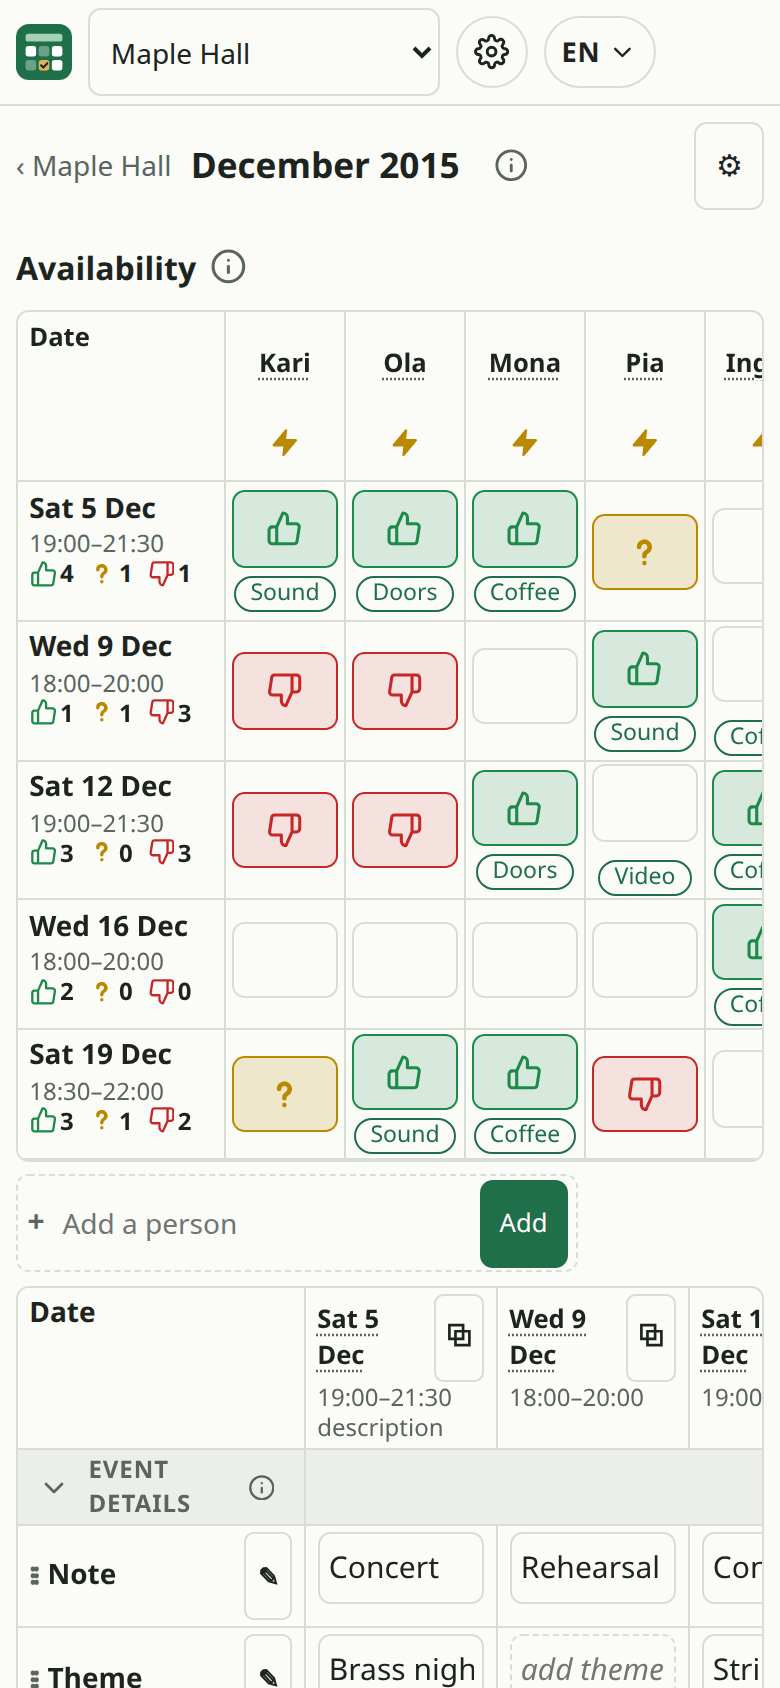
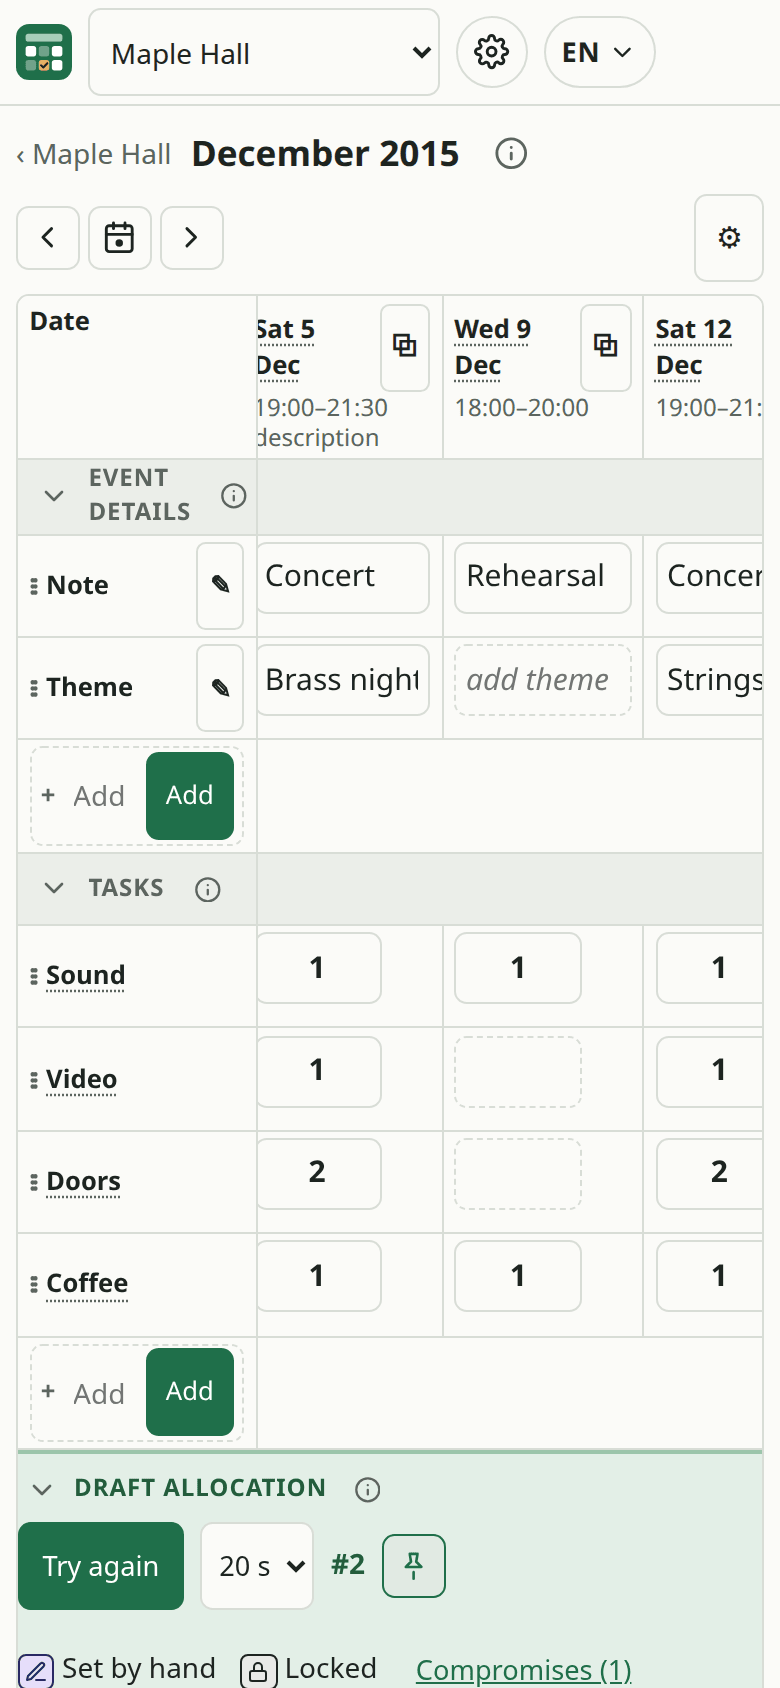
A phone gets the ordinary table, not the turned one

diff --git a/web/app.js b/web/app.js
@@ -715,13 +715,8 @@ function weightsForm(path, wr, saved) {
 // What the page keeps between redraws of the same plan: the draft picked under the earlier drafts.
 const planState = { key: '', runId: null };
 
-// A phone gets the availability turned (the sketch's option A, chosen 2026-11-20): events down, people across, the event column
-// stays put. The same width as the phone rule in style.css, and width only, so the keyboard coming up never redraws the page.
-const PHONE = matchMedia('(max-width: 40rem)');
-PHONE.addEventListener('change', () => { if (route().page === 'plan') render(); });
-
 // Sideways through the events: ◀ ▶ move a screenful, «Next» goes to the first event from today. Over the dates the wheel scrolls
-// sideways too. grid is the table's scroll box (null on a phone, where the events go down).
+// sideways too. grid is the table's scroll box.
 function sideways(grid, events) {
   if (!grid) return '';
   const firstCol = () => (grid.querySelector('tbody th[scope=row]') || { offsetWidth: 0 }).offsetWidth;
@@ -1341,14 +1336,14 @@ async function pagePlan(r, org, people) {
   // whole Row"): drag over cells, Shift+click to stretch, Ctrl/⌘+click to add or take away one, a click on ⋮⋮ for the
   // whole row, a click on an event's count for everyone that day. Two grids: places (tasks × events) and answers (people ×
   // events); a selection is in one of them. A bar at the bottom sets every selected cell at once (one request); Escape
-  // or ✕ lets go. Hidden rows (folded, filtered) are never selected. Not on a phone (the turned table).
+  // or ✕ lets go. Hidden rows (folded, filtered) are never selected. Dragging needs a mouse; a touch scrolls the table.
   const grids = { places: { rows: [], cells: new Map() }, answers: { rows: [], cells: new Map() } };
   const evIndex = new Map(events.map((ev, i) => [ev.id, i]));
   let sel = null;  // { grid, keys: Set('row/event'), anchor: { row, ev } }
   const selbar = h('div', { class: 'selbar', hidden: true, role: 'region', 'aria-label': t('sel.bar') });
   const cellKey = (row, ev) => row + '/' + ev;
   const reg = (grid, row, ev, td, paint) => {
-    if (PHONE.matches || org.level === 'view') return;
+    if (org.level === 'view') return;
     const g = grids[grid];
     if (!g.rows.includes(row)) g.rows.push(row);
     g.cells.set(cellKey(row, ev.id), { td, row, ev, paint });
@@ -1555,7 +1550,7 @@ async function pagePlan(r, org, people) {
     countCells[evId].replaceChildren(h('b', { class: 'good' }, icon('up'), c.good), h('b', { class: 'poor' }, icon('maybe'), c.poor), h('b', { class: 'never' }, icon('down'), c.never));
     countCells[evId].setAttribute('aria-label', t('table.count', c));
   };
-  const answerCell = (p, ev, got) => {
+  const answerCell = (p, ev) => {
     const b = h('button', { type: 'button', class: 'ans' });
     let busy = false;  // a second click while the first is on its way would send the same answer twice
     const paint = () => {
@@ -1576,8 +1571,8 @@ async function pagePlan(r, org, people) {
       busy = false;
     });
     paint();
-    const td = h('td', { class: 'answer' }, b, got && got.length ? h('div', { class: 'got' }, got.map((name) => h('span', { class: 'chip task' }, name))) : '');
-    if (!got) reg('answers', p.id, ev, td, paint);
+    const td = h('td', { class: 'answer' }, b);
+    reg('answers', p.id, ev, td, paint);
     return td;
   };
   // People: ⋮⋮ drags a person to another row, also into another section (or onto its heading: the top of it). Sections are
@@ -1633,9 +1628,8 @@ async function pagePlan(r, org, people) {
     view.load.length ? linkBtn(t('draft.distribution'), () => listDialog(t('draft.distribution'), view.load.map((l) => t('run.load_line', { name: l.name, count: l.count, target: l.target.toLocaleString(locale()) })))) : '',
     runs.length > 1 ? linkBtn(t('draft.earlier'), settingsDialog) : '');
 
-  const phone = PHONE.matches;
   const addPerson = () => addRow(t('table.new_person'), (name) => api('POST', base + '/people', { name }));
-  const table = h('div', { class: 'grid-scroll' + (phone ? '' : ' main') }, h('table', { class: 'dp-table' },
+  const table = h('div', { class: 'grid-scroll main' }, h('table', { class: 'dp-table' },
     h('thead', {}, head),
     h('tbody', {},
       sect('details', t('table.details'), [t('table.details_hint')]),
@@ -1644,7 +1638,7 @@ async function pagePlan(r, org, people) {
       folds('tasks', [tasks.map(taskRow), addLine(addRow(t('table.new_task'), (name) => api('POST', base + '/tasks', { name })))]),
       h('tr', { class: 'sect draft' }, h('td', { colspan: String(cols + 2) }, bar)),
       folds('draft', [tasks.map((tk) => h('tr', { class: 'draft-row' }, h('th', { scope: 'row' }, tk.name), events.map((ev) => putDraftCell(ev, tk)), filler()))]),
-      phone ? '' : [
+      [
         dropOn(h('tr', { class: 'sect' }, h('th', { scope: 'row' }, h('div', { class: 'rl' }, foldBtn('avail', t('table.availability')), t('table.availability'), infoBtn(t('table.availability'), [t('table.availability_info'), t('sel.info')])),
           people.length > 8 ? filterBox() : ''),
           events.map((ev) => (countCells[ev.id] = h('td', { class: 'count small', title: t('sel.column_hint'), onclick: (e) => selectLine('answers', e, (c) => c.ev.id === ev.id) }))), filler()),
@@ -1657,43 +1651,21 @@ async function pagePlan(r, org, people) {
   applyFolds(table);
   table.addEventListener('pointerdown', onCellDown);
 
-  // On a phone: the availability turned, above the rest of the table. Under each answer, the tasks the person has in the draft
-  // (as the draft rows show them: set by hand, locked or from the planner).
-  const firstName = (p) => p.name.split(/\s+/)[0];
-  const shortName = (p) => (people.some((o) => o.id !== p.id && firstName(o) === firstName(p)) ? firstName(p) + ' ' + p.name.split(/\s+/).pop()[0] + '.' : firstName(p));
-  const turned = () => {
-    const got = {};  // 'event/person' -> the names of the tasks they have in the draft
-    for (const ev of events) for (const tk of tasks) for (const x of slotsAt(ev, tk).items) {
-      if (x.kind === 'person') (got[ev.id + '/' + x.id] ||= []).push(tk.name);
-    }
-    const cols = people;
-    return h('section', { class: 'turned-wrap' },
-      h('h2', {}, t('table.availability'), infoBtn(t('table.availability'), [t('table.availability_info')])),
-      h('div', { class: 'grid-scroll' }, h('table', { class: 'dp-table turned' },
-        h('thead', {}, h('tr', {}, h('th', { scope: 'col', class: 'corner' }, t('table.date')),
-          cols.map((p) => (h('th', { scope: 'col' }, h('button', { type: 'button', class: 'cellbtn', title: p.name, 'aria-label': t('table.person_aria', { name: p.name }), onclick: () => personDialog(p) }, shortName(p)), autoBtn(p)))))),
-        h('tbody', {}, events.map((ev) => h('tr', {},
-          h('th', { scope: 'row' }, h('b', {}, fmtShortDate(ev.date)), clock(ev) ? h('span', { class: 'sub' }, clock(ev)) : '', (countCells[ev.id] = h('span', { class: 'sub count' }))),
-          cols.map((p) => (answerCell(p, ev, got[ev.id + '/' + p.id])))))))),
-      addPerson());
-  };
-  const availability = phone ? turned() : '';
   events.forEach((ev) => recount(ev.id));
 
   const root = h('div', { class: 'plan-page' },
     h('div', { class: 'title-bar' },
       link(`/o/${enc(r.org)}`, '‹ ' + org.name, { class: 'back small', 'aria-label': t('common.back', { name: org.name }) }),
       h('h1', {}, plan.name),
-      infoBtn(plan.name, [t(phone ? 'table.hint_phone' : 'table.hint')]),
-      events.length ? sideways(phone ? null : table, events) : '',
+      infoBtn(plan.name, [t('table.hint')]),
+      events.length ? sideways(table, events) : '',
       ME && ME.login && org.role ? h('button', { type: 'button', class: 'ghost share', onclick: () => shareDialog(r.org, org, plan) }, icon('share'), h('span', { class: 'lbl' }, ' ' + t('share.open'))) : '',
       h('button', { type: 'button', class: 'ghost settings', 'aria-label': t('settings.open'), onclick: settingsDialog }, '⚙', h('span', { class: 'lbl' }, ' ' + t('settings.open')))),
     viewOnly(org),
     events.length ? '' : h('p', { class: 'muted small' }, t('table.no_events')),
-    availability,
     table,
     selbar);
-  if (!phone) dragScroll(table);
+  dragScroll(table);
   root.shown = () => reopened({
     task: (id) => { const x = tasks.find((tk) => tk.id === id); if (x) taskDialog(x); },
     person: (id) => { const x = people.find((p) => p.id === id); if (x) personDialog(x); },

diff --git a/scripts/ui-check.js b/scripts/ui-check.js
@@ -550,21 +550,17 @@ const { spawn } = require('child_process');
       const w = await page.evaluate(() => [document.documentElement.scrollWidth, document.documentElement.clientWidth]);
       ok(w[0] <= w[1], `the page ${url} is ${w[0]} px wide on a ${w[1]} px screen (scrolls sideways)`);
     }
-    // the availability is turned (events down, people across) above the rest; the answers are only there
-    await page.waitForSelector('.dp-table.turned');
-    ok((await page.locator('.dp-table.turned button.ans').count()) === 9 && (await page.locator('button.ans').count()) === 9, 'on a phone the answers are in the turned table only');
-    ok((await page.locator('.dp-table.turned th[scope=row]').first().evaluate((e) => getComputedStyle(e).position)) === 'sticky', 'the event column stays put');
+    // the same table as on a wide screen: dates across, people down; the names stay put while the days scroll sideways
+    ok((await page.locator('button.ans').count()) === 9, 'on a phone the answers are in the ordinary table');
     const stuck = await page.evaluate(() => {
-      const box = document.querySelectorAll('.grid-scroll')[1];
+      const box = document.querySelector('.grid-scroll.main');
       const th = box.querySelector('tbody th[scope=row]');
       const x0 = th.getBoundingClientRect().left;
       box.scrollLeft = 300;
       return [box.scrollLeft > 0, Math.abs(th.getBoundingClientRect().left - x0) < 1];
     });
-    ok(stuck[0] && stuck[1], 'the rest of the table scrolls sideways and the row names stay put: ' + stuck);
-    const gotAt = (person, e) => answer(person, e).locator('xpath=..').locator('.got').innerText().catch(() => '');
-    ok((await gotAt(lockedName, ev[0])).includes('Sound'), 'under the answer: the task the person has in the draft (the locked name)');
-    const countOf = (e) => page.locator('.dp-table.turned tbody tr', { has: answer('Jon Demo', e) }).locator('.count').getAttribute('aria-label');
+    ok(stuck[0] && stuck[1], 'the table scrolls sideways and the row names stay put: ' + stuck);
+    const countOf = (e) => page.locator('td.count').nth(ev.indexOf(e)).getAttribute('aria-label');
     const before0 = await answer('Jon Demo', ev[0]).getAttribute('data-level');
     const count0 = await countOf(ev[0]);
     await answer('Jon Demo', ev[0]).click();
@@ -575,7 +571,6 @@ const { spawn } = require('child_process');
     ok((await dialog.locator('h2').innerText()) === 'Kari Test', 'a person’s name at the top opens the person');
     await closeDialog();
     await page.setViewportSize({ width: 1280, height: 900 });
-    await until(page, () => !document.querySelector('.dp-table.turned') && document.querySelectorAll('.dp-table button.ans').length === 9, null, 'a wide screen gets the table with people as rows again');
 
     // --- Norwegian: the switch, what the server writes, the errors ---
     await page.goto(base + '/o/sports-club');

diff --git a/web/style.css b/web/style.css
@@ -176,20 +176,12 @@ button.auto[aria-pressed="false"] { color: var(--muted); opacity: .45; }
 button.auto[aria-pressed="false"] svg { fill: none; }
 button.auto[aria-pressed="true"] svg { fill: currentColor; }
 button.auto:hover { border-color: var(--line); opacity: 1; }
-.dp-table.turned thead button.auto { margin: .1rem auto 0; display: block; }
 /* ⓘ: the explanation of something, in a dialog */
 button.info { background: transparent; border: none; color: var(--muted); padding: 0 .15rem; line-height: 0; }
 button.info:hover { color: var(--accent); }
 .info-text p { margin: .25rem 0 .6rem; }
-.dp-table tr.inactive th, .dp-table tr.inactive td, .dp-table.turned .inactive { opacity: .6; }
+.dp-table tr.inactive th, .dp-table tr.inactive td { opacity: .6; }
 
-/* A phone: the availability turned (option A), events down and people across; the event column stays put, people scroll sideways. */
-.turned-wrap h2 { margin: .75rem 0 .25rem; font-size: 1rem; }
-.dp-table.turned th[scope=row] { min-width: 6.5rem; max-width: 7.5rem; }
-.dp-table.turned thead th, .dp-table.turned td { min-width: 3.75rem; max-width: 5.5rem; text-align: center; }
-.dp-table.turned thead th.corner { text-align: left; }
-.dp-table.turned thead .cellbtn { font-size: .8rem; text-align: center; overflow-wrap: anywhere; }
-.dp-table.turned .got { display: flex; flex-wrap: wrap; justify-content: center; gap: .15rem; margin-top: .25rem; }
 span.chip.task { border-color: var(--accent); color: var(--accent); }
 
 /* ---- dialogs ---- */
@@ -229,8 +221,10 @@ input.wide { width: 100%; }
   header select { max-width: 11rem; padding: .25rem .4rem; }
   header .spacer { display: none; }
   .title-bar h1 { font-size: 1.1rem; }
-  .dp-table th[scope=row] { min-width: 7.5rem; max-width: 9rem; }
-  .dp-table th, .dp-table td { min-width: 6rem; }
+  /* a phone gets the same table: a narrower name column and narrower days, so more of them fit */
+  .dp-table th[scope=row] { min-width: 6.5rem; max-width: 7.5rem; font-size: .8rem; }
+  .dp-table th, .dp-table td { min-width: 4.75rem; }
+  .grid-scroll.main { scroll-padding-left: 7rem; }
   .legend { margin-left: 0; }
 }
 

diff --git a/web/i18n.js b/web/i18n.js
@@ -257,7 +257,6 @@ const MESSAGES = {
     'common.save': 'Save',
 
     'table.hint': 'Read a column from the top: what the event is, what it needs, who got it, who can come. Click an answer to change it: thumb up = yes, ? = maybe, thumb down = no, empty = not answered. ⚡ by a name: the planner may pick the person. Move sideways with ‹ ›, the wheel over the dates, the arrow keys, or by dragging the table.',
-    'table.hint_phone': 'Tap an answer to change it: thumb up = yes, ? = maybe, thumb down = no, empty = not answered. ⚡ under a name: the planner may pick the person. Under it are the tasks the person has in the draft. The details, the places and the draft are in the table further down.',
     'table.no_events': 'No events yet: add one with + at the end of the date row.',
     'table.date': 'Date',
     'table.tasks': 'Tasks',
@@ -729,7 +728,6 @@ const MESSAGES = {
     'common.save': 'Lagre',
 
     'table.hint': 'Les en kolonne ovenfra: hva hendelsen er, hva den trenger, hvem som fikk den, hvem som kan komme. Klikk på et svar for å endre det: tommel opp = ja, ? = kanskje, tommel ned = nei, tomt = ikke svart. ⚡ ved et navn: planleggeren kan velge personen. Flytt sideveis med ‹ ›, hjulet over datoene, piltastene eller ved å dra i tabellen.',
-    'table.hint_phone': 'Trykk på et svar for å endre det: tommel opp = ja, ? = kanskje, tommel ned = nei, tomt = ikke svart. ⚡ under et navn: planleggeren kan velge personen. Under står oppgavene personen har i utkastet. Detaljene, plassene og utkastet er i tabellen lenger ned.',
     'table.no_events': 'Ingen hendelser ennå: legg til en med + på slutten av datoraden.',
     'table.date': 'Dato',
     'table.tasks': 'Oppgaver',

diff --git a/scripts/shots.js b/scripts/shots.js
@@ -227,9 +227,9 @@ const CHOICES = {
     await save(tall, '11-settings', dialog(tall));
     await closeDialog(tall);
 
-    // On a phone the availability is turned: events down, people across, with each person's tasks in the draft under the answer.
+    // On a phone: the same table, narrower, scrolling sideways under the names.
     const phone = await open(await context({ viewport: { width: 390, height: 844 }, isMobile: true, hasTouch: true }));
-    await go(phone, planPath, '.dp-table.turned');
+    await go(phone, planPath, '.dp-table');
     await phone.screenshot({ path: path.join(OUT, '14-phone.png') });
 
     const nb = await open(await context({ viewport: { width: 1280, height: 900 } }, 'nb'));

diff --git a/CLAUDE.md b/CLAUDE.md
@@ -99,11 +99,11 @@ starts the Python planner, turns the answer into a view with explanations), `int
   *Tasks* (the places per event, typed into the cells; empty = not needed; ⋮⋮ drags a task, in the organisation's order `task.position`, not in the planner's input;
   *Fill row* in the task's dialog sets every event of the plan), the green *Draft allocation* (the run on show merged with what is set by hand), and
   *Availability* (a count per event and one row per person; ⋮⋮ drags a person, `person.position`; organisation-wide *sections* (`person_section`)
-  are headings with their people below, those without a section first; only placement, never in the planner's input; on a phone the order stays, without headings). Clicking a date, task, person, row ✎ or draft place opens its dialog; ⚙ *Plan settings* has the name, the
+  are headings with their people below, those without a section first; only placement, never in the planner's input; on a phone too). Clicking a date, task, person, row ✎ or draft place opens its dialog; ⚙ *Plan settings* has the name, the
   weighting, the earlier drafts (Show/Pin) and Delete. Do not add separate pages for these again.
-  - **On a phone** (the sketch's option A, chosen 2026-11-20): the same page with *Availability* turned and moved above the rest: events down, people across
-    (first names; the event column stays put), the person's tasks in the draft under each answer. The rest of the table follows, sideways-scrolling. One layout is
-    in the page at a time (`PHONE` in `web/app.js`, the same 40rem as the phone rule in `style.css`); there is no «my» column and no list of one's own.
+  - **On a phone** the same table as on a wide screen, narrower (2026-11-22, the user: "La vertikal visning på mobil vises som vanlig. Den
+    løsningen som er i dag er litt forvirrende." — the turned availability of 2026-11-20 is gone; do not bring it back). Names stay put, the days
+    scroll sideways; a tap answers. Dragging a selection needs a mouse (a touch scrolls), but ⋮⋮ and a count still select.
   - **No day types.** Each event has its own places (`event_task`); in the planner's input every event is its own type. Events are copied instead (`POST .../events/{id}/copy`:
     dates, or repeated every week or every 2–8 weeks until a date (`every`; only the dates are made, nothing stores the rhythm), with times, details, places and
     names set by hand as chosen; answers and drafts are never copied).

diff --git a/README.md b/README.md
@@ -110,11 +110,10 @@ with the weighting and the plan's name.
 ![An organisation and its plans](docs/img/01-organisation.png)
 
 **English and Norwegian, on a phone.** The page follows the browser's language and has a switch in the header; the
-explanations the planner writes follow it too. On a phone the availability is turned: events go down and people across, so a
-tap answers, and under each answer are the tasks that person has in the draft. The rest of the table follows below it and scrolls
-sideways under the row names.
+explanations the planner writes follow it too. On a phone it is the same table, narrower: the names stay put while the days
+scroll sideways, and a tap answers.
 
-![The plan on a phone: the availability turned, events down and people across](docs/img/14-phone.png)
+![The plan on a phone: the same table, scrolling sideways](docs/img/14-phone.png)
 ![The same plan in Norwegian](docs/img/15-norwegian.png)
 
 **Small to run.** One Go binary with the web page inside it and a SQLite file; the planner is a separate Python program that the
